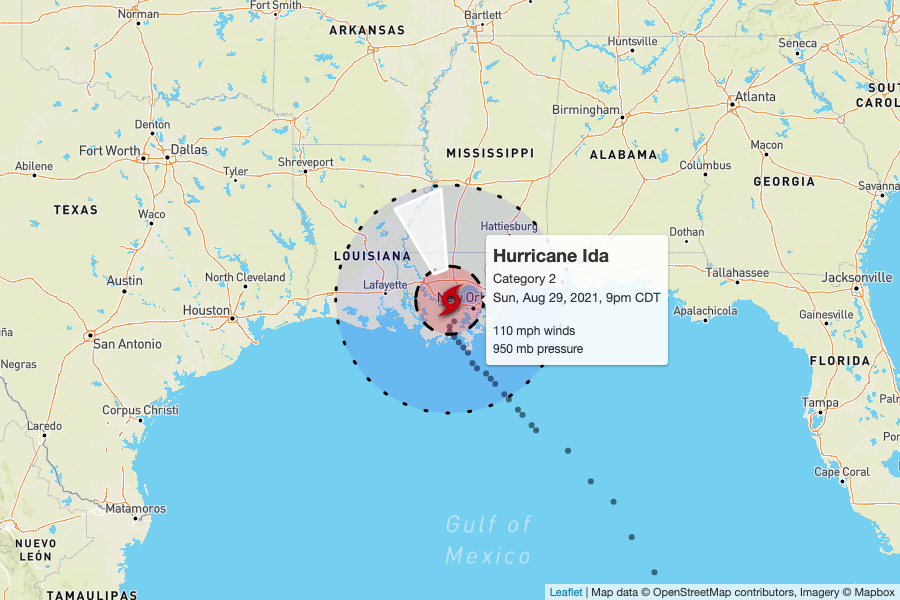
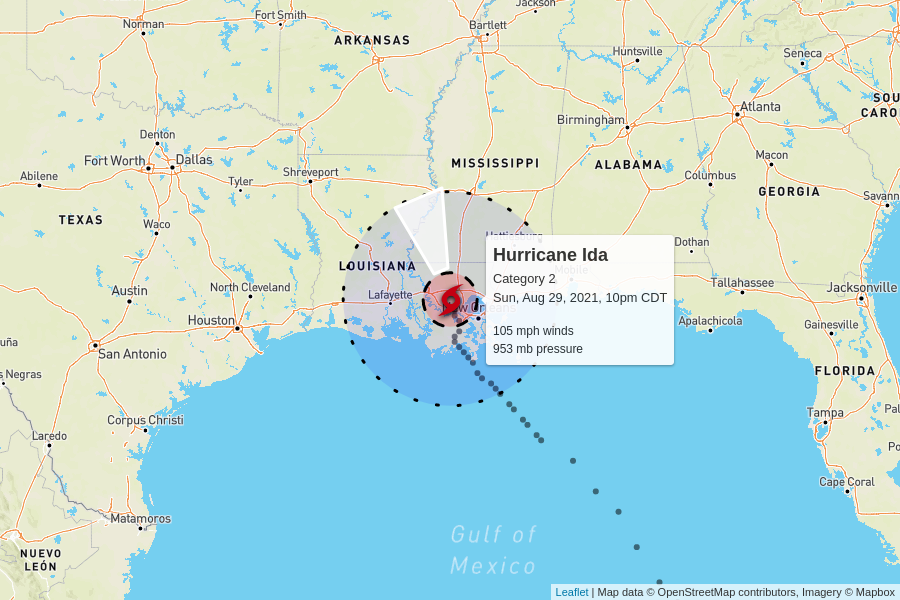
automatic update

diff --git a/docs/index.html b/docs/index.html
@@ -100,7 +100,7 @@
         <td colspan="6" class="storm category-2">
           <h2>
             Hurricane Ida - Category 2
-            <p class="updated">last updated <span data-time>2021-08-30T02:00:00.000Z</span></p>
+            <p class="updated">last updated <span data-time>2021-08-30T03:00:00.000Z</span></p>
           </h2>
         </td>
       </tr>
@@ -115,8 +115,8 @@
       </tr>
       <tr>
         <td class="spacer"></td>
-        <td>110 mph</td>
-        <td>950 mb</td>
+        <td>105 mph</td>
+        <td>953 mb</td>
         <td>
           9 mph to the north-northwest
           <br/>
@@ -144,7 +144,7 @@
         <td colspan="6" class="storm category-0">
           <h2>
             Tropical Depression Ten
-            <p class="updated">last updated <span data-time>2021-08-29T21:00:00.000Z</span></p>
+            <p class="updated">last updated <span data-time>2021-08-30T03:00:00.000Z</span></p>
           </h2>
         </td>
       </tr>
@@ -162,9 +162,9 @@
         <td>35 mph</td>
         <td>1008 mb</td>
         <td>
-          12 mph to the north
+          8 mph to the north
           <br/>
-          <span style="display: inline-block; font-size: 1.5em; rotate: 355deg;">↑</span>
+          <span style="display: inline-block; font-size: 1.5em; rotate: 350deg;">↑</span>
         </td>
         <td><a href="https://raw.githubusercontent.com/mgwalker/atlantic-hurricanes/main/data/csv/AL102021.csv">AL102021.csv</a></td>
         <td><a href="https://www.nhc.noaa.gov/archive/2021/TEN.shtml?">NHC advisories</a></td>
@@ -186,46 +186,11 @@
 
       <tr>
         <td colspan="6" class="storm category-0">
-          <h2>
-            Tropical Storm Julian
-            <p class="updated">last updated <span data-time>2021-08-29T21:00:00.000Z</span></p>
+          <h2>🏁 Julian
           </h2>
         </td>
       </tr>
       
-      <tr>
-        <th class="spacer"></th>
-        <th>wind speed</th>
-        <th>central pressure</th>
-        <th>movement</th>
-        <th>data (CSV)</th>
-        <th>National Hurricane Center</th>
-      </tr>
-      <tr>
-        <td class="spacer"></td>
-        <td>60 mph</td>
-        <td>995 mb</td>
-        <td>
-          24 mph to the northeast
-          <br/>
-          <span style="display: inline-block; font-size: 1.5em; rotate: 50deg;">↑</span>
-        </td>
-        <td><a href="https://raw.githubusercontent.com/mgwalker/atlantic-hurricanes/main/data/csv/AL112021.csv">AL112021.csv</a></td>
-        <td><a href="https://www.nhc.noaa.gov/archive/2021/JULIAN.shtml?">NHC advisories</a></td>
-      </tr>
-      <tr>
-        <td class="spacer">
-        <td colspan="5">
-          <figure>
-            <img src="AL112021.png">
-            <figcaption>
-              Map data &copy; <a href="https://www.openstreetmap.org/copyright">OpenStreetMap</a> contributors,
-              Imagery &copy; <a href="https://www.mapbox.com/">Mapbox</a> |
-              <a href="<a href="https://www.mapbox.com/map-feedback/" target="_blank">Improve this map</a>
-            </figcaption>
-          </figure>
-        </td>
-      </tr>
       
 
       <tr>
